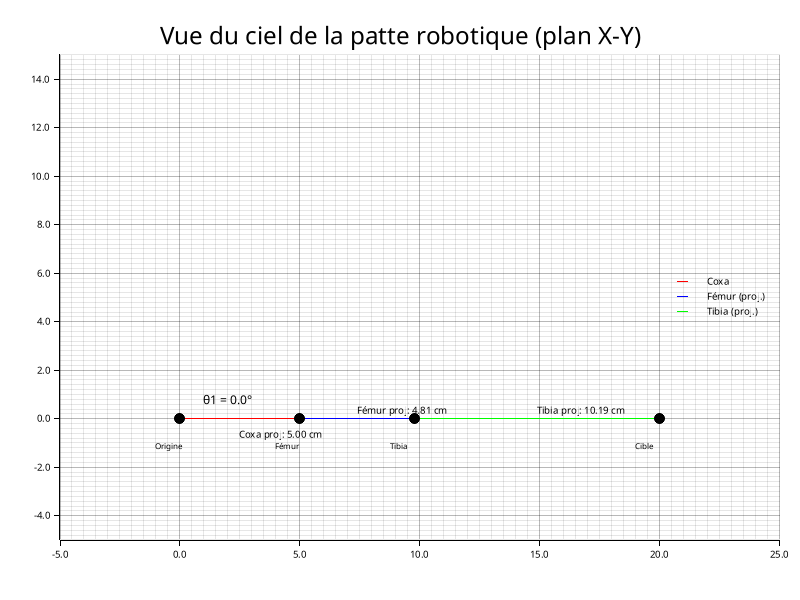
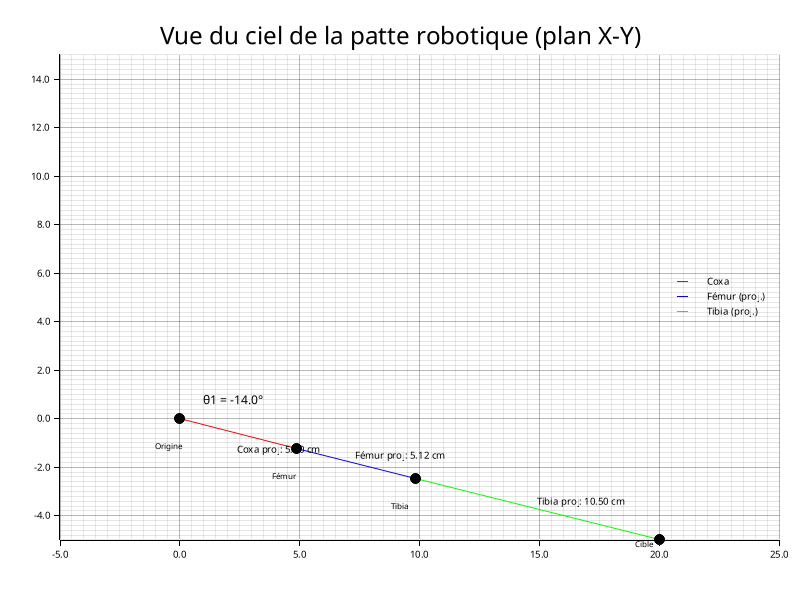
Refactor leg calculations to improve distance handling and enhance projection accuracy

diff --git a/Rust/trigo-calc/src/main.rs b/Rust/trigo-calc/src/main.rs
@@ -18,10 +18,12 @@ fn calcul(x: f64, y: f64, z: f64) {
         tpatte
     );
 
-    let h = (z * z + (x - COXA) * (x - COXA)).sqrt();
-
     // Theta 1: angle azimuthal du coxa (rotation autour de Z)
     let theta1 = y.atan2(x);
+    
+    // Distance horizontale réelle après rotation du coxa
+    let horizontal_dist = tpatte - COXA;
+    let h = (z * z + horizontal_dist * horizontal_dist).sqrt();
     
     // Application de la loi des cosinus pour trouver l'angle d'articulation entre fémur et tibia
     let cos_theta5 = (FEMUR * FEMUR + TIBIA * TIBIA - h * h) / (2.0 * FEMUR * TIBIA);
@@ -32,7 +34,8 @@ fn calcul(x: f64, y: f64, z: f64) {
         return;
     }
     
-    let theta5 = cos_theta5.acos(); // angle entre fémur et tibia
+    // angle entre fémur et tibia
+    let theta5 = cos_theta5.acos();
     
     // (coxa position -> target) à (coxa articulation -> femur -> target)
     // cos(angle_au_coxa) = (FEMUR^2 + h^2 - TIBIA^2) / (2 * FEMUR * h)
@@ -56,7 +59,7 @@ fn calcul(x: f64, y: f64, z: f64) {
     // Projections horizontales des segments pour vue de dessus
     let c_prime = COXA;
     let f_prime = FEMUR * theta4.cos();
-    let t_prime = tpatte - (c_prime + f_prime);
+    let t_prime = horizontal_dist - f_prime;
 
     println!("\nLongueurs des projections des segments de la patte (vue du ciel) :");
     println!("Coxa (c')  : {:.2} cm", c_prime);
